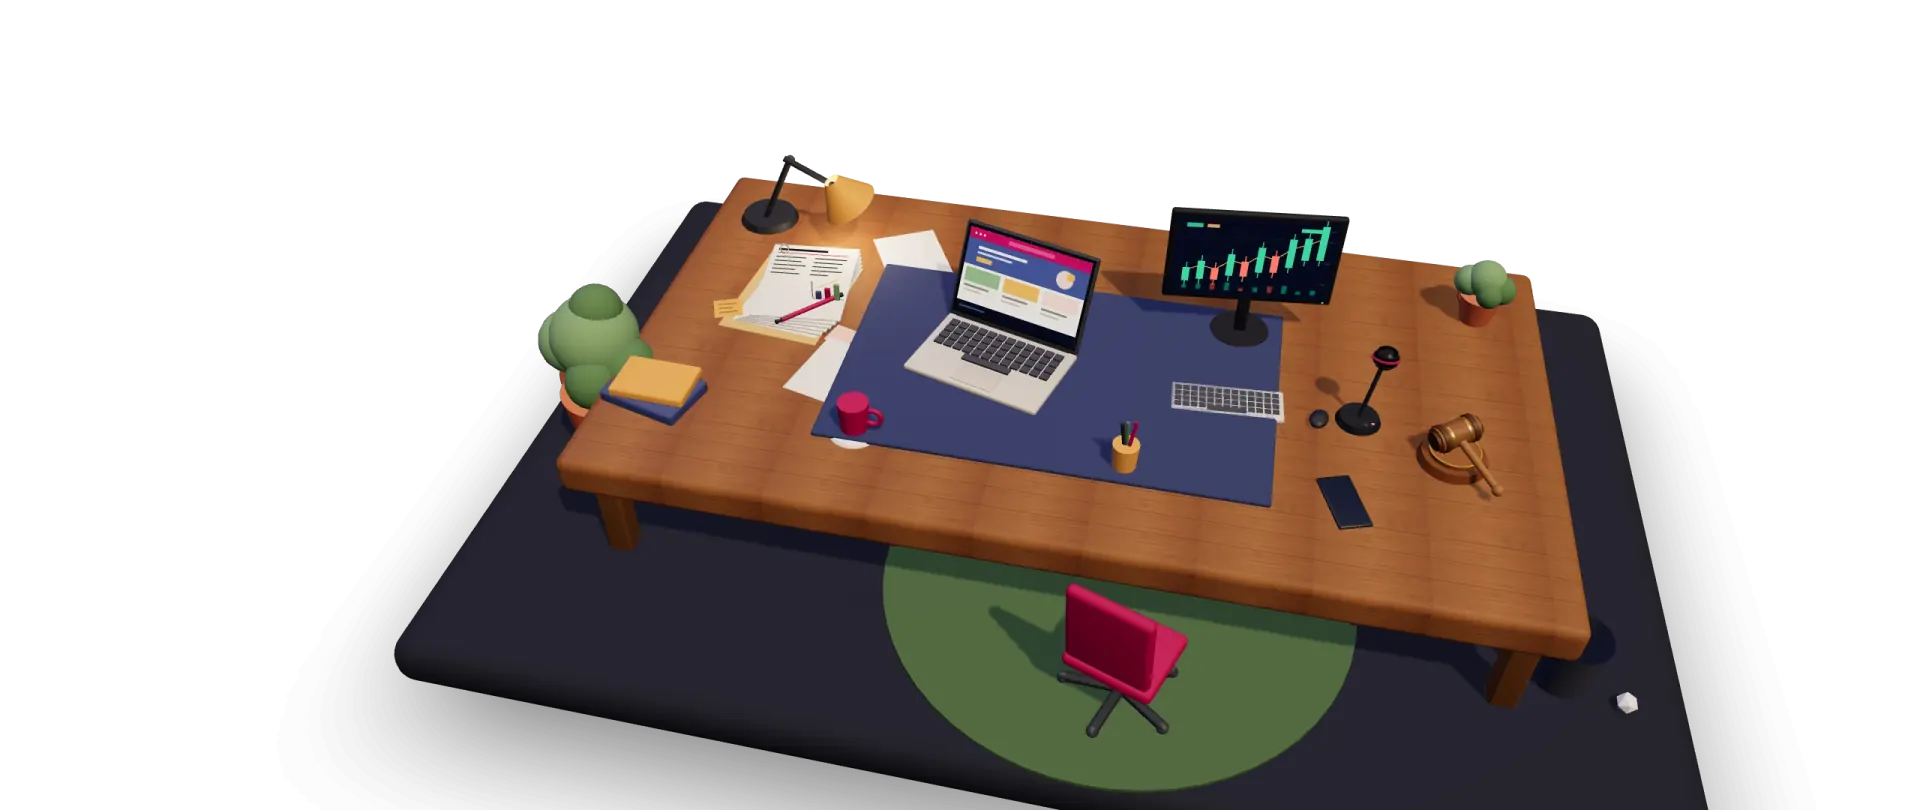
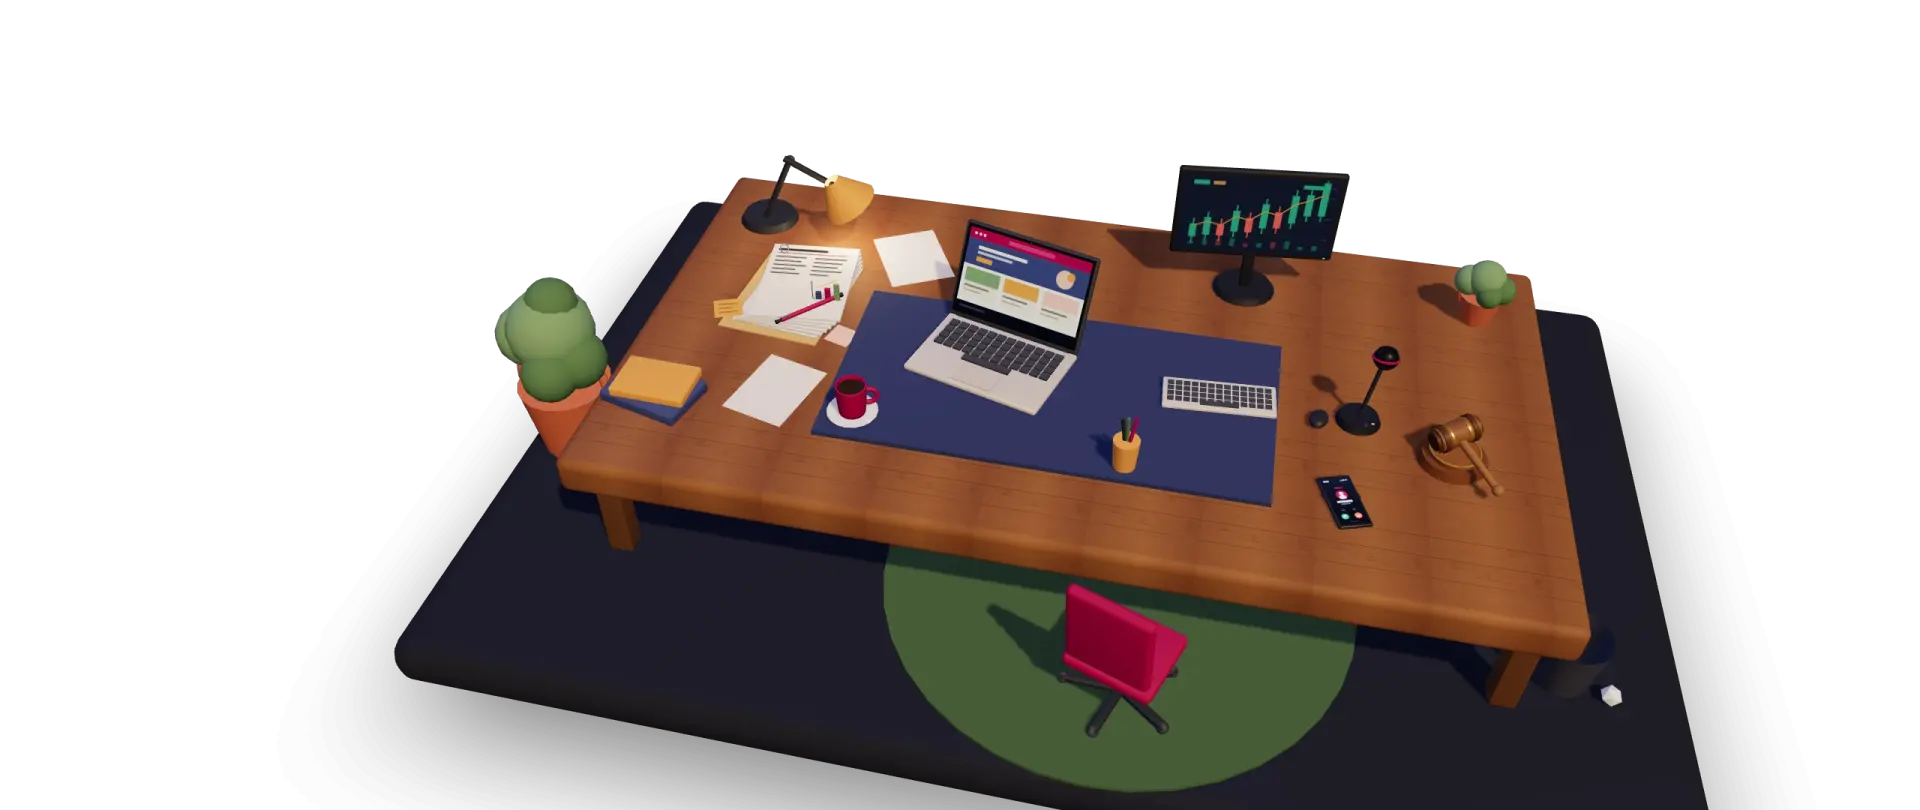
Recapture the desk poster; correct two stale CLAUDE.md notes
The poster predated the scene by four passes -- it was captured before
the monitor moved off the blotter, before the prop-placement fixes, and
before the mug was rebuilt as a real vessel. It is the no-WebGL fallback
hero, so those visitors were seeing a desk that no longer exists.

Recaptured from the live scene at the overview stop with the float bob
zeroed, 2560x1080 at dpr 1, downscaled to 1920x810. Measured rather than
eyeballed: the opaque bounding box matches the old one within 4px, so
the framing is unchanged.

Encoder settings needed a second look. At the old quality:76 the file
came out 26% larger, and the cause was alphaQuality, not the extra
geometry -- the island floats on transparency and its soft shadow lives
entirely in the alpha channel. alphaQuality 80 lands at 44 kB, matching
the file it replaces, with a maximum alpha error of 2/255. Dropping to
70 would save another 6 kB at an error of 12, which is visible in the
shadow falloff, so it is not worth it.

POSTER_BLUR regenerated from the same capture. Confirmed the new string
ships in page.js and the old one is gone; the poster serves as
image/webp and decodes at 1920x810.

Also corrects two CLAUDE.md notes that were wrong rather than merely
stale: the Phase 3 entry still described the custom domain as unwired
when sunnyavula.com has been serving for some time, and the poster TODO
is now closed.

diff --git a/components/desk/DeskScene.tsx b/components/desk/DeskScene.tsx
@@ -29,7 +29,7 @@ const pad = (n: number) => String(n).padStart(2, "0");
 // the fallback hero is never a flat empty gradient while desk-poster.webp
 // (43 kB) is still in flight.
 const POSTER_BLUR =
[2 lines of base64/hex data omitted]
 
 // A real capture of the WebGL scene, used only by the no-WebGL fallback hero
 // below. The live deck renders the 3D desk directly.

diff --git a/CLAUDE.md b/CLAUDE.md
@@ -259,8 +259,8 @@ live in `wrangler.jsonc`, not here. Mirror active keys into `.env.example` (no v
 > (this was caught by eye — the geometry was correct either way). Reach is 0.277 against the
 > saucer's 0.26, so the footprint is unchanged and it still clears the laptop base by 0.06.
 > Still four draw calls, +~360 triangles on a ~37k scene. Verified by rendering the mug close
-> up and at the overview stop via the rafshim procedure below. `public/desk-poster.webp` now
-> predates the scene by three passes — recapture it.
+> up and at the overview stop via the rafshim procedure below. ~~`public/desk-poster.webp` now
+> predates the scene by three passes — recapture it.~~ **Done 2026-08-06** (latest+9).
 >
 > **Status (2026-08-04, latest+5): desk props no longer clip through the mat or the
 > desk.** Six placement bugs, all the same two shapes.
@@ -575,11 +575,14 @@ live in `wrangler.jsonc`, not here. Mirror active keys into `.env.example` (no v
 > — the sandbox pane can't composite (rAF frozen), so camera framing/lighting are untuned-by-eye.
 > The live Workers deploy predates this redesign; run `npm run deploy` to refresh it.
 >
-> **Status (2026-07-22): Phase 3 complete — SITE IS LIVE** at
-> **https://sunnyavula.black-pine-e5ad.workers.dev** (deployed via `npm run deploy`; workers.dev
-> URL until the custom domain is wired in the Cloudflare dashboard — that step is manual and
-> still open, as is a human visual review of the desk scene, which the sandbox still can't
-> render). Phase 3 shipped: (1) small-viewport (≤640px) + no-WebGL static fallback hero —
+> **Status (2026-07-22): Phase 3 complete — SITE IS LIVE.** *(Superseded 2026-08-06: the
+> custom domain **is** wired — **https://sunnyavula.com** serves, and pushes to `main` deploy
+> automatically via Workers Builds. The two "still open" items below were both closed long ago
+> and the note was never updated; the original text is kept for history only.)*
+> Originally at **https://sunnyavula.black-pine-e5ad.workers.dev** (deployed via
+> `npm run deploy`; workers.dev URL until the custom domain is wired in the Cloudflare dashboard
+> — that step is manual and still open, as is a human visual review of the desk scene, which the
+> sandbox still can't render). Phase 3 shipped: (1) small-viewport (≤640px) + no-WebGL static fallback hero —
 > `public/hero-fallback.svg` (hand-authored aerial desk illustration matching the scene palette)
 > plus a text section nav; (2) WebGL frameloop pauses (`frameloop="never"`) when the hero is
 > scrolled off-screen (IntersectionObserver); (3) SEO: `app/opengraph-image.tsx` (static
